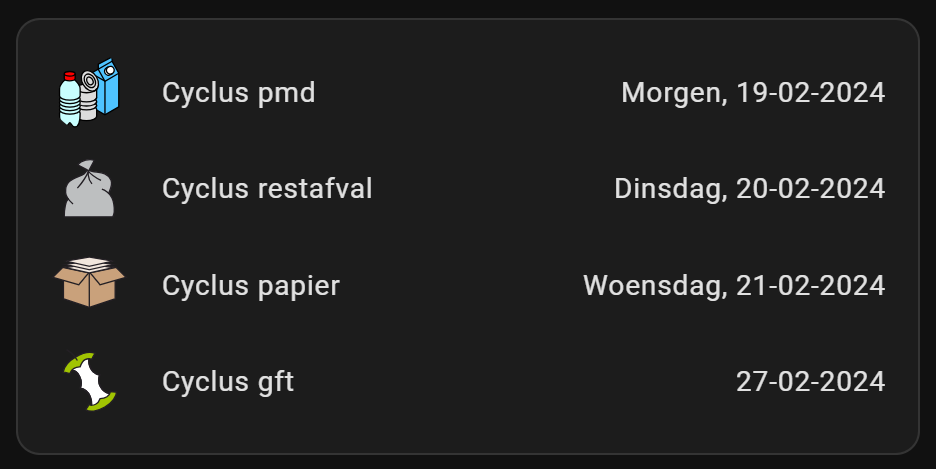
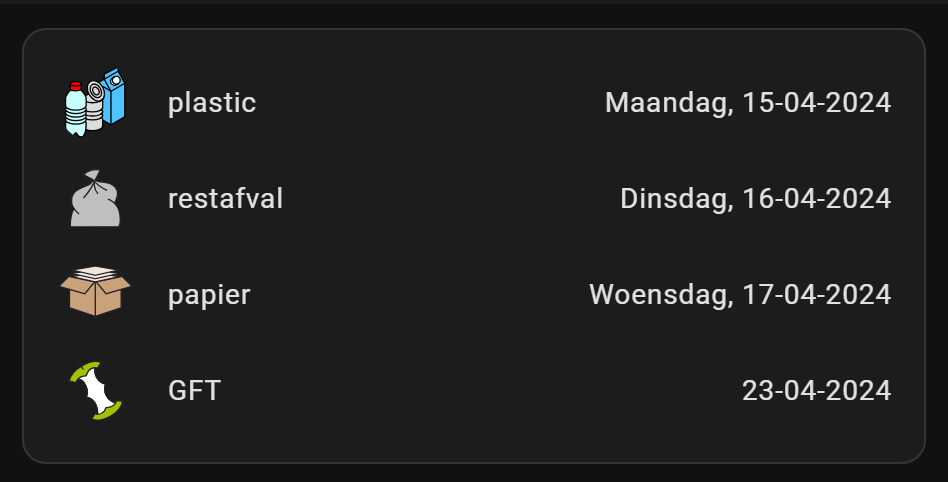
afvalbeheer examples

diff --git a/homeassistant/homeassistant_hacs_afvalbeheer.md b/homeassistant/homeassistant_hacs_afvalbeheer.md
@@ -24,8 +24,14 @@ Check the git repository to find all the options and if you can use it in your c
     * [Auto-entities integration](#auto-entities-integration)
   * [Default presentation](#default-presentation)
   * [Sort by date](#sort-by-date)
-  * [Custom helper entities: days count down](#custom-helper-entities-days-count-down)
-  * [Sorted by days](#sorted-by-days)
+    * [As row - order by date](#as-row---order-by-date)
+    * [As list](#as-list)
+    * [As list - days countdown](#as-list---days-countdown)
+    * [As 2x2 raster](#as-2x2-raster)
+  * [Custom helper entities: days countdown](#custom-helper-entities-days-countdown)
+  * [Sorted by new countdown entities](#sorted-by-new-countdown-entities)
+    * [As row](#as-row)
+    * [As list](#as-list-1)
   * [Show conditional, only for the next 5 days](#show-conditional-only-for-the-next-5-days)
   * [Mushroom element](#mushroom-element)
   * [LED strip indicator](#led-strip-indicator)
@@ -76,7 +82,7 @@ afvalbeheer:
 
 ### Auto-entities integration
 
-To show the (countdown) entities by wildcard and sort them by date, you need also the HACS frontend repository [auto-entities](homeassistant_dashboard_card_auto-entities).
+To show the (countdown) entities by wildcard and sort them by date, you also need the HACS frontend repository [auto-entities](homeassistant_dashboard_card_auto-entities).
 
 ---
 ## Default presentation
@@ -90,7 +96,7 @@ This is the default presentation.
 The downside is that it isn't ordered by date, you get a colored (distracting) icon and you don't see the numbers of days. Now you need to know the current date and calculate when it's the right date to put it on the street. So work todo to make it more practical and a cleaner presentation. 
 
 This dashboard code belongs to the above presentation screenshot.
-In my case my provider is `cyclus` that's why I have that in my sensor name. Yours can be different.
+In my case my `wastecollector` is `cyclus` that's why I have that name in my sensor name. Yours can be different.
 
 ```yaml
 {% raw %}
@@ -109,14 +115,47 @@ show_header_toggle: false
 ---
 ## Sort by date
 
-You can use the extra attribute `Days_until` which are by default added to each sensor, and we can use it for sorting on date in combination by using the custom card auto-entities.
+Each entity comes with extra data which we can use to sort by date for example.
+It has an attribute called `Days_until` which contains the numeric days to bin day. 
+We can use it for sorting on date in combination by using the custom HACS card `auto-entities`.
 
-### List
+### As row - order by date
 
-As list without a header.
+An example to show the entities sorted by date in a row.
+In this example `dateonly: 0` which also add the day. But when you set `dateonly: 1` you only see the date as state underneath the icon.
+
+Unfortunately: It's not possible to show an attribute value in combination with card type glance...\
+I create new helper [countdown](#custom-helper-entities-days-countdown) entities which make this possible.
+
+<img src="images_afvalbeheer/pres_row_own-icon.png" alt="afvalbeheer presentation as row" width="400px">
+
+The corresponding code:
+```yaml
+{% raw %}
+# Sourcecode by vdbrink.github.io
+# Entities Card Configuration
+type: custom:auto-entities
+card:
+  type: glance
+  title: Afval kalender
+  columns: 4
+filter:
+  include:
+    - entity_id: sensor.cyclus_*
+sort:
+  method: attribute
+  attribute: Days_until
+  numeric: true
+{% endraw %}
+```
+
+### As list
+
+Show the default entities as a list, without a header, ordered by date.
 
 <img src="images_afvalbeheer/pres_list.png" alt="afvalbeheer presentation as list" width="400px">
 
+The corresponding code:
 ```yaml
 {% raw %}
 # Sourcecode by vdbrink.github.io
@@ -134,35 +173,13 @@ sort:
 {% endraw %}
 ```
 
-### Row with custom icon for all
+### As list - days countdown
 
-<img src="images_afvalbeheer/pres_row_custom-icon.png" alt="afvalbeheer presentation as row" width="400px">
-
-```yaml
-{% raw %}
-# Sourcecode by vdbrink.github.io
-# Entities Card Configuration
-type: custom:auto-entities
-card:
-  type: glance
-  title: Afvalwijzer
-filter:
-  include:
-    - entity_id: sensor.cyclus_*
-      options:
-        icon: mdi:delete-empty
-  show_empty: false
-sort:
-  method: attribute
-  attribute: Days_until
-  numeric: true
-{% endraw %}
-```
-
-### List with original icon and days countdown
+Show the default entities as a list, ordered by date and show the days until bin day.
 
 <img src="images_afvalbeheer/pres_list_icon_date.png" alt="afvalbeheer presentation as list with original icon and days countdown" width="400px">
 
+The corresponding code:
 ```yaml
 {% raw %}
 # Sourcecode by vdbrink.github.io
@@ -178,7 +195,6 @@ filter:
         type: custom:template-entity-row
         state: >
           {{state_attr(config.entity,'Days_until')}} dagen
-  show_empty: false
 sort:
   method: attribute
   attribute: Days_until
@@ -186,57 +202,25 @@ sort:
 {% endraw %}
 ```
 
-### Row with original icon and days countdown
+### As 2x2 raster
 
-<img src="images_afvalbeheer/pres_row_icon_date.png" alt="afvalbeheer presentation as list with original icon and days countdown" width="400px">
+Show the default entities in a 2x2 raster, ordered by date.
 
+<img src="images_afvalbeheer/pres_raster_2x2.png" alt="afvalbeheer presentation as list with original icon and days countdown" width="400px">
+
+The corresponding code:
 ```yaml
 {% raw %}
 # Sourcecode by vdbrink.github.io
 # Entities Card Configuration
 type: custom:auto-entities
 card:
-  type: entities
-  title: 'Afvalkalender'
-filter:
-  include:
-    - entity_id: sensor.cyclus_*
-      options:
-        type: custom:template-entity-row
-        state: >
-          {{state_attr(config.entity,'Days_until')}} dagen
-  show_empty: false
-sort:
-  method: attribute
-  attribute: Days_until
-  numeric: true
-{% endraw %}
-```
-
-### 2x2 raster 
-
-<img src="images_afvalbeheer/pres_row_icon_date.png" alt="afvalbeheer presentation as list with original icon and days countdown" width="400px">
-
-```yaml
-{% raw %}
-# Sourcecode by vdbrink.github.io
-# Entities Card Configuration
-type: custom:auto-entities
-card:
-  show_name: true
-  show_icon: true
-  show_state: true
   type: glance
   title: Afval kalender
   columns: 2
 filter:
   include:
     - entity_id: sensor.cyclus_*
-      options:
-        type: custom:template-entity-row
-        state: |
-          {{state_attr(config.entity,'Days_until')}} dagen
-  show_empty: false
 sort:
   method: attribute
   attribute: Days_until
@@ -245,7 +229,7 @@ sort:
 ```
 
 ---
-## Custom helper entities: days count down
+## Custom helper entities: days countdown
 
 I wanted my presentation like this.\
 Only with the numbers of days instead of the full date as the state value.\
@@ -304,52 +288,79 @@ sensor:
 ```
 
 ---
-## Sorted by days
+## Sorted by new countdown entities
 
-The new countdown entities sorted by days.
+### As row
+
+Show the new countdown entities, with the countdown days, all with the same icon, ordered by date in a row.
+
+<img src="images_afvalbeheer/pres_row_date.png" alt="afvalbeheer presentation as list with original icon and days countdown" width="400px">
+
+The corresponding code:
+```yaml
+{% raw %}
+# Sourcecode by vdbrink.github.io
+# Entities Card Configuration
+type: custom:auto-entities
+card:
+  type: glance
+  title: 'Afvalkalender'
+filter:
+  include:
+    - entity_id:  sensor.*waste*countdown
+sort:
+  method: state
+  numeric: true
+{% endraw %}
+```
+
+### As list
+
+The countdown entities sorted by days in a list.
 
 <img src="images_afvalbeheer/days_countdown.png" alt="Days countdown" width="400px">
 
-The dashboard card code with auto-entities. These values are sorted by the state value.
-
+The corresponding code:
 ```yaml
 {% raw %}
 # Sourcecode by vdbrink.github.io
 # Dashboard card code
-- type: custom:auto-entities
-  card:
-    type: entities
-    show_header_toggle: false
-    state_color: false
-  filter:
-    include:
-      - entity_id: sensor.*waste_pickup_countdown
-    exclude: null
-  show_empty: false
-  sort:
-    method: state
-    numeric: true
+type: custom:auto-entities
+card:
+  type: entities
+  show_header_toggle: false
+  state_color: false
+filter:
+  include:
+    - entity_id: sensor.*waste_pickup_countdown
+  exclude: null
+show_empty: false
+sort:
+  method: state
+  numeric: true
 {% endraw %}
 ```
 
 ---
 ## Show conditional, only for the next 5 days
 
-Show only the waste pickup for the upcoming 5 days.
+Show only the waste pickup for the upcoming 5 days.\
+In this case there is only one pickup in the next 5 days otherwise more entities will be visible.
 
+<img src="images_afvalbeheer/pres_5days.png" alt="only for the next 5 days" width="400px">
 
 ```yaml
 {% raw %}
 # Sourcecode by vdbrink.github.io
 # Dashboard card code
-- type: custom:auto-entities
-  card:
-    type: entities
-  filter:
-    include:
-      - entity_id: sensor.*_waste_pickup_countdown
-        state 1: < 6
-        state 2: '> 0'
+type: custom:auto-entities
+card:
+  type: entities
+filter:
+  include:
+    - entity_id: sensor.*_waste_pickup_countdown
+      state 1: < 6
+      state 2: '> 0'
 {% endraw %}
 ```
 
@@ -397,9 +408,6 @@ chips:
 ---
 ## LED strip indicator
 
-I created a [separated page](../projects/bin_day_led_strip_reminder.md) how I setup a LED strip under my dressoir to light up the evening before bin day.
-
-<img src="../projects/images_bin_day/bin_day_ledstrip.png" alt="bin day LED strip" width="200px">
 
 ---
 [^^ Top](#table-of-contents)
